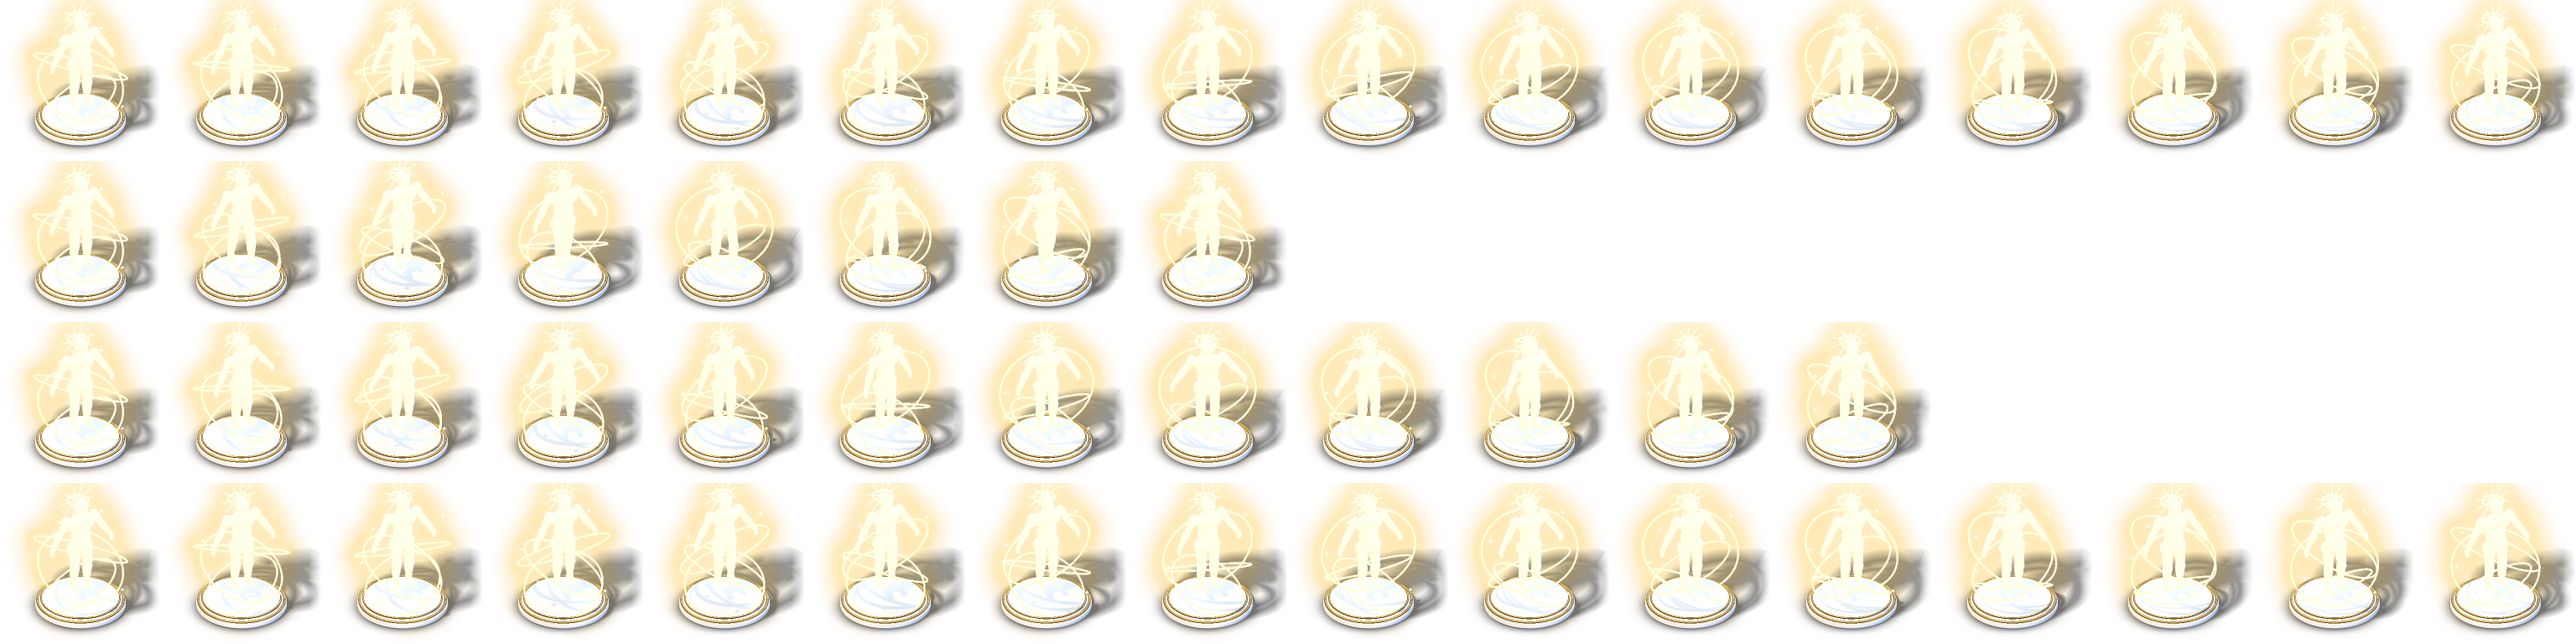
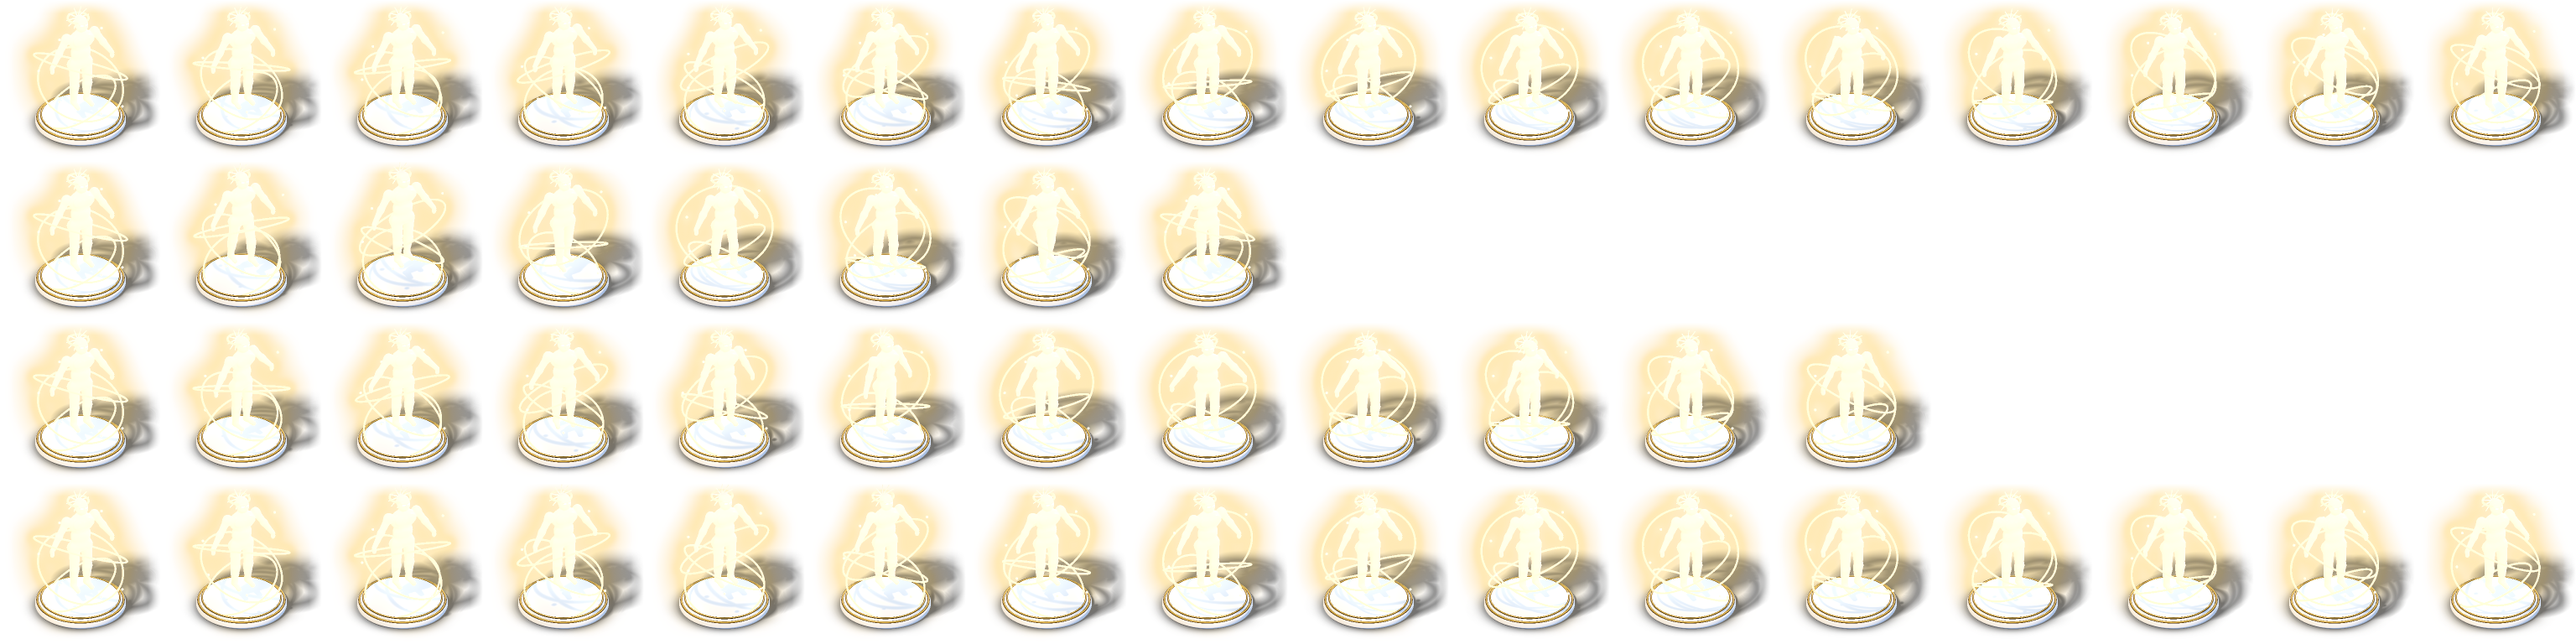
figurines: the glow (bloom) fades out before the frame's border (it was cut in a straight line above the Laboratoire's AlphaZero); that figure's halo rays shorter; its sheets rebuilt

diff --git a/app/tools/sprites/render.py b/app/tools/sprites/render.py
@@ -726,6 +726,7 @@ def render(scene, size=192, ss=2, view=2.0, center=(0.0, 0.62, 0.0), ground=True
     col = to_srgb(col)
     pre = torch.cat([col * alpha, alpha], 0)[None]
     pre = torch.nn.functional.avg_pool2d(pre, ss)[0]
+    pre_nob = pre.clone()
     if bloom > 0:
         em = torch.nn.functional.avg_pool2d(emis[None], ss)[0]
         glow = gauss_blur(em, size / 40) * 0.9 + gauss_blur(em, size / 14) * 0.6
@@ -734,6 +735,12 @@ def render(scene, size=192, ss=2, view=2.0, center=(0.0, 0.62, 0.0), ground=True
         rgb = pre[:3] + glow * (1 - pre[3:4]) + glow * 0.12 * pre[3:4]
         a = (pre[3:4] + ga * (1 - pre[3:4])).clamp(0, 1)
         pre = torch.cat([rgb.clamp(0, 1), a], 0)
+        # the glow fades out before the frame's border (a glow reaching it would be cut in a line)
+        yy, xx = torch.meshgrid(torch.arange(size, device=DEV, dtype=F), torch.arange(size, device=DEV, dtype=F), indexing="ij")
+        edge = torch.minimum(torch.minimum(yy, size - 1 - yy), torch.minimum(xx, size - 1 - xx)) / size
+        fade = (edge / 0.08).clamp(0, 1)[None]
+        glow_part = (pre - torch.cat([pre_nob[:3], pre_nob[3:4]], 0)).clamp_min(0)
+        pre = pre - glow_part * (1 - fade)
     a = pre[3:4]
     rgb = torch.where(a > 1e-4, pre[:3] / a.clamp_min(1e-4), torch.zeros_like(pre[:3])).clamp(0, 1)
     out = torch.cat([rgb, a], 0).permute(1, 2, 0)

diff --git a/app/tools/sprites/anatomy.py b/app/tools/sprites/anatomy.py
@@ -515,7 +515,7 @@ def stage(level):
             sc.add(sd_torus(0.1, 0.008), glow("#ffe0a0", 9.0), root * T(*off(hd, 0, 0.02, -0.06)))      # the halo
             for k in range(10):   # rays around it
                 a = TAU * k / 10 + t
-                sc.add(sd_capsule((0, 0, 0), (0.18 * math.cos(a), 0.18 * math.sin(a), 0), 0.004, 0.001), glow("#fff2c8", 6.0),
+                sc.add(sd_capsule((0, 0, 0), (0.12 * math.cos(a), 0.12 * math.sin(a), 0), 0.004, 0.001), glow("#fff2c8", 6.0),   # short: inside the frame
                        root * T(*off(hd, 0, 0.02, -0.07)))
             light_rings(sc, t, 3, 7.0, r=0.38, y0=0.15)
             for k in range(6):   # sparks rising
